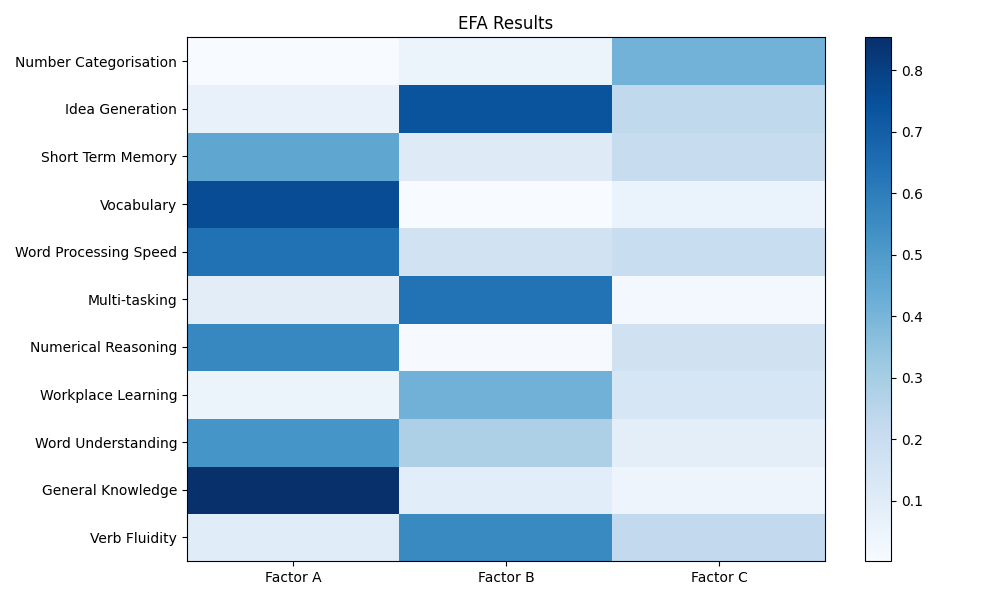
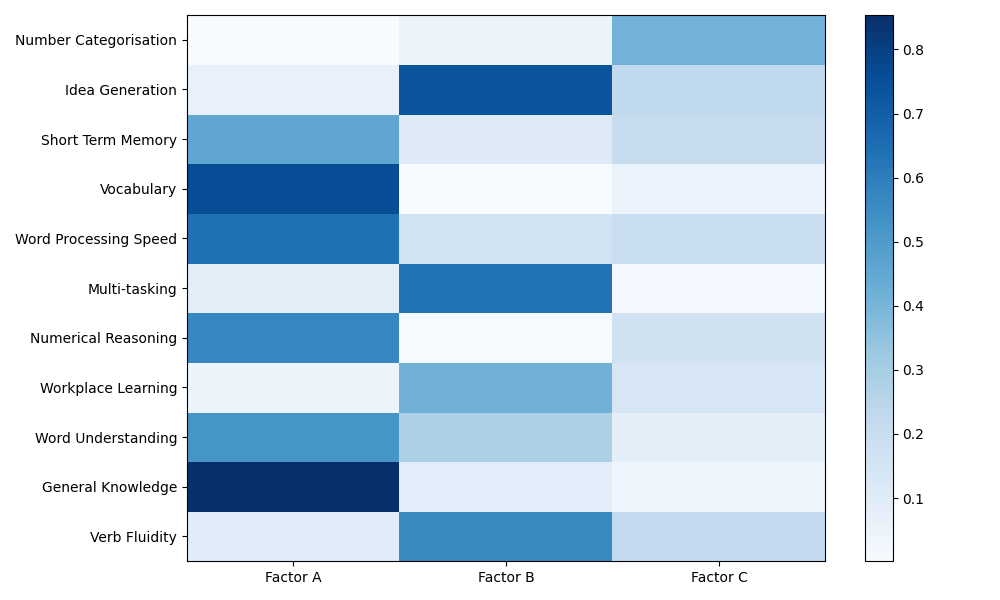
Removed titles

diff --git a/EFA/efa.py b/EFA/efa.py
@@ -65,7 +65,6 @@ def plot_eisen_values(filename: str, eigen_values: list, width: int):
     matplotlib.pyplot.scatter(range(1, width+1), eigen_values, c="b")
     matplotlib.pyplot.plot(
         range(1, width+1), eigen_values, "b", label="PAF - Data")
-    matplotlib.pyplot.title('Eigenvalue Analysis', {'fontsize': 20})
     matplotlib.pyplot.xlabel('Factor', {'fontsize': 15})
     matplotlib.pyplot.ylabel('Eigenvalue', {'fontsize': 15})
     matplotlib.pyplot.legend()
@@ -83,7 +82,6 @@ def plot_horn_results(filename: str, eigenvalues: list, average_paf_eigens: list
         range(1, width+1), eigenvalues, c='b', marker='o')
     matplotlib.pyplot.plot(
         range(1, width+1), eigenvalues, 'b', label='PAF - data')
-    matplotlib.pyplot.title('Parallel Analysis', {'fontsize': 20})
     matplotlib.pyplot.xlabel('Factor', {'fontsize': 15})
     matplotlib.pyplot.ylabel('Eigenvalue', {'fontsize': 15})
     matplotlib.pyplot.legend()
@@ -115,7 +113,6 @@ def plot_scree(proportional_variance: list, filename: str, width: int):
     matplotlib.pyplot.figure(figsize=(8, 6))
     matplotlib.pyplot.plot(range(1, width+1), proportional_variance,
                            'o-', linewidth=2, color='blue', label="PAF - Data")
-    matplotlib.pyplot.title('Variance Scree Plot', {'fontsize': 20})
     matplotlib.pyplot.xlabel('Factor', {'fontsize': 15})
     matplotlib.pyplot.ylabel('Variance Explained', {'fontsize': 15})
     matplotlib.pyplot.legend()
@@ -167,7 +164,6 @@ def plot_paf_results(paf, filename: str, number_topics: int, headers: list):
     figure.colorbar(x, ax=axis)
     axis.set_yticks(numpy.arange(paf.loadings_.shape[0])+0.5, minor=False)
     axis.set_xticks(numpy.arange(paf.loadings_.shape[1])+0.5, minor=False)
-    axis.set_title("EFA Results")
     axis.set_yticklabels(headers)
     axis.set_xticklabels(xlabels)
     figure.tight_layout()
